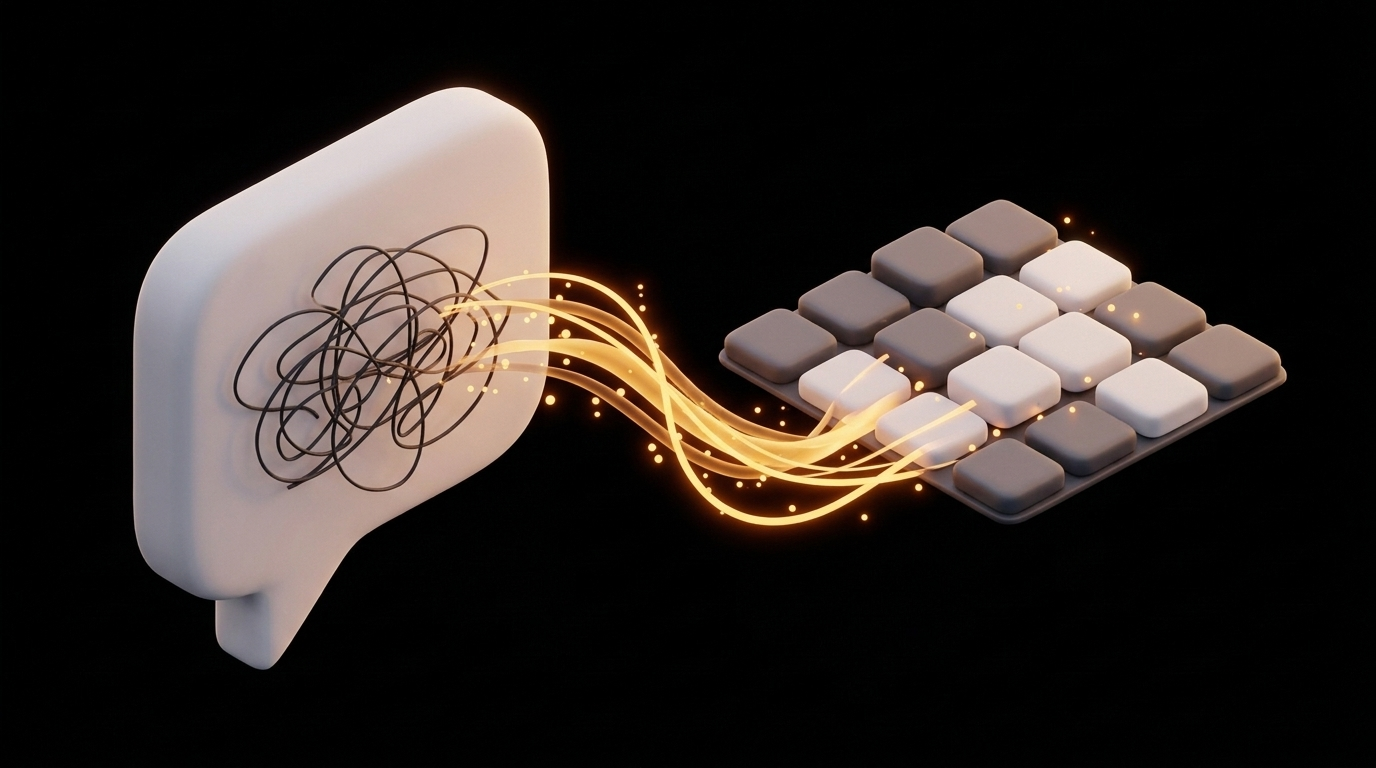
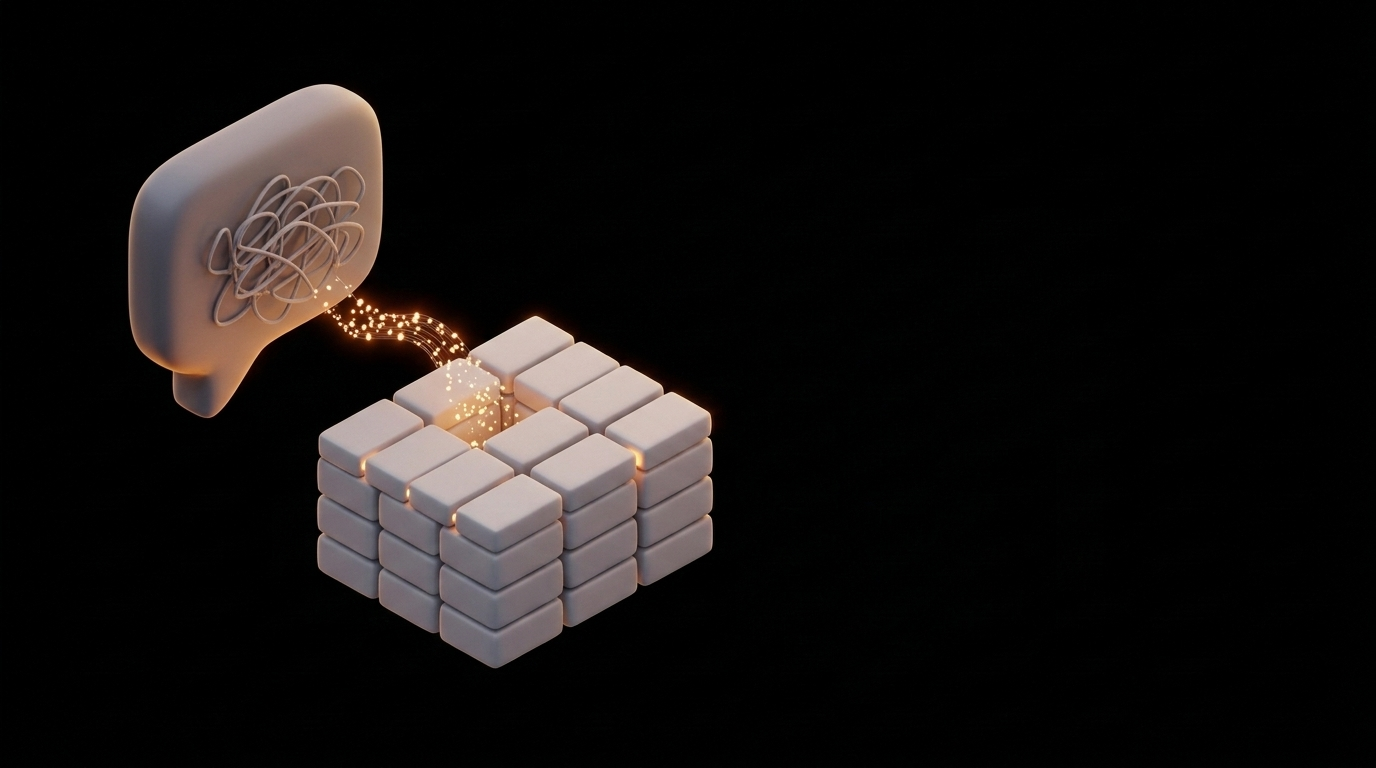
그림 가장자리 비네트, 28번 그림을 오른쪽 배경으로, 07 새 구도 그림
- slide-kit: 좌우 분리 배경에 위아래·바깥쪽 비네트, shot--fade(칸 안 그림 테두리 없이 녹임)
- 좌우 분리 배경 폭 기본 100% (옛 가운데 구도 그림만 --photo-w: 74%)
- 본문 좌우 분리용 .half, 28번 리니지 화면을 오른쪽 배경으로
- 07_speak 2차(왼쪽 60% 구도) 반영, 04는 회색 배경 경계선 문제로 프롬프트 보강
- .agents 정리는 앞 커밋

diff --git a/css/slide-kit.css b/css/slide-kit.css
@@ -455,14 +455,31 @@
    그림은 한쪽으로 붙여 반대쪽 끝을 페이드, 어둡게 하는 건 글씨 쪽만.
    (sk--photo 와 함께 씁니다) */
 .sk.sk--photo-left, .sk.sk--photo-right { --photo-dim: .8; }
-.sk--photo-left  .sk-bg { width: 74%; right: auto; object-position: 55% 50%;
-    -webkit-mask-image: linear-gradient(to right, #000 55%, transparent 100%);
-            mask-image: linear-gradient(to right, #000 55%, transparent 100%); }
-.sk--photo-right .sk-bg { width: 74%; left: auto; object-position: 45% 50%;
-    -webkit-mask-image: linear-gradient(to left, #000 55%, transparent 100%);
-            mask-image: linear-gradient(to left, #000 55%, transparent 100%); }
-.sk--photo-left::after  { background: linear-gradient(to right, transparent 30%, rgba(0,0,0,.82) 62%); }
-.sk--photo-right::after { background: linear-gradient(to left,  transparent 30%, rgba(0,0,0,.82) 62%); }
+.sk--photo-left  .sk-bg { width: var(--photo-w, 100%); right: auto; }
+.sk--photo-right .sk-bg { width: var(--photo-w, 100%); left: auto; }
+/* 처음부터 한쪽 60% 구도로 만든 그림은 폭 100% 그대로.
+   가운데 구도로 만든 옛 그림은 style="--photo-w: 74%" 로 한쪽에 붙여 씁니다. */
+/* 비네트 — 가운데는 밝게, 끝으로 갈수록 어둡게 사라짐 (딱 끊긴 테두리 없이)
+   글씨 쪽은 길게(45%), 화면 바깥쪽·위아래는 짧게 녹아듭니다 */
+.sk--photo-left .sk-bg {
+    -webkit-mask-image: linear-gradient(to right, rgba(0,0,0,.35) 0%, #000 14%, #000 55%, transparent 100%),
+                        linear-gradient(to bottom, transparent 0%, #000 16%, #000 84%, transparent 100%);
+            mask-image: linear-gradient(to right, rgba(0,0,0,.35) 0%, #000 14%, #000 55%, transparent 100%),
+                        linear-gradient(to bottom, transparent 0%, #000 16%, #000 84%, transparent 100%);
+    -webkit-mask-composite: source-in; mask-composite: intersect;
+}
+.sk--photo-right .sk-bg {
+    -webkit-mask-image: linear-gradient(to left, rgba(0,0,0,.35) 0%, #000 14%, #000 55%, transparent 100%),
+                        linear-gradient(to bottom, transparent 0%, #000 16%, #000 84%, transparent 100%);
+            mask-image: linear-gradient(to left, rgba(0,0,0,.35) 0%, #000 14%, #000 55%, transparent 100%),
+                        linear-gradient(to bottom, transparent 0%, #000 16%, #000 84%, transparent 100%);
+    -webkit-mask-composite: source-in; mask-composite: intersect;
+}
+.sk.sk--photo-left::after  { background: linear-gradient(to right, transparent 30%, rgba(0,0,0,.82) 62%); }
+.sk.sk--photo-right::after { background: linear-gradient(to left,  transparent 30%, rgba(0,0,0,.82) 62%); }
+/* 본문에서 좌우 분리: 글씨는 반대쪽 절반에만 (.half 로 감쌈) — 아래로 모으는 본문 규칙은 쓰지 않음 */
+.sk--photo-left  .half { margin-left: auto; }
+.sk .half { width: 52%; flex: 1; min-height: 0; display: flex; flex-direction: column; justify-content: center; gap: var(--sp-4); }
 
 /* 표지 글씨 블록을 반대쪽으로 */
 .sk-cover.sk--photo-left  { align-items: flex-start; text-align: left; padding-left: 50%; padding-right: var(--slide-px); }
@@ -582,6 +599,12 @@
 
 /* 화면 캡처처럼 잘리면 안 되는 그림 */
 .sk .shot--contain { object-fit: contain; background: var(--bg-code); }
+/* 칸 안 그림의 테두리를 없애고 가장자리를 검정 배경에 녹임 (비네트) */
+.sk .shot--fade {
+    border: none; border-radius: 0;
+    -webkit-mask-image: radial-gradient(ellipse 50% 50% at 50% 50%, #000 55%, transparent 100%);
+            mask-image: radial-gradient(ellipse 50% 50% at 50% 50%, #000 55%, transparent 100%);
+}
 
 /* 코드 타일(components.css)을 열 안에서 남는 높이만큼 */
 .sk .col > .code-tile-wrapper { flex: 1; min-height: 0; }

diff --git a/slides/AI업무자동화_연수/28.html b/slides/AI업무자동화_연수/28.html
@@ -1,4 +1,5 @@
-<div class="sk tone-amber">
+<div class="sk sk--photo sk--photo-right tone-amber" style="--photo-w: 58%; --photo-dim: .6;">
+  <img class="sk-bg" src="img/lineage.png" alt="" onerror="handleImgError(this)">
 
   <div class="s-head">
     <div class="s-head__main">
@@ -6,51 +7,43 @@
     </div>
   </div>
 
-  <div class="cols">
-
-    <div class="col">
-      <div class="card card--row card--plain">
-        <div class="card__icon">⌨</div>
-        <div>
-          <div class="card__title">자동화 스크립트 언어</div>
-          <p class="card__body">
-            키보드, 마우스, 창 제어를 코드 몇 줄로 자동화하는
-            <strong>윈도우 전용 무료 도구</strong>입니다.
-          </p>
-        </div>
-      </div>
-      <div class="card card--row card--plain">
-        <div class="card__icon">🏢</div>
-        <div>
-          <div class="card__title">못 고치는 프로그램도 자동화</div>
-          <p class="card__body">
-            에듀파인 &middot; 그룹웨어처럼 우리가 손댈 수 없는 프로그램도
-            <strong>키보드와 마우스를 대신 움직여</strong>
-            자동화합니다.
-          </p>
-        </div>
-      </div>
-      <div class="card card--row card--plain">
-        <div class="card__icon">🎮</div>
-        <div>
-          <div class="card__title">검증된 자동화 도구</div>
-          <p class="card__body">
-            온라인 게임 자동화 도구로 유명해질 만큼
-            <strong>반복 동작 자동화</strong>에
-            특화되어 있습니다.
-          </p>
-        </div>
-      </div>
-      <div class="note">
-        <i class="fa-solid fa-bolt"></i>&nbsp;
-        라이브 ②의 <strong>메신저 개별 전송</strong>이 바로 이 도구입니다.
+  <div class="half">
+    <div class="card card--row card--plain">
+      <div class="card__icon">⌨</div>
+      <div>
+        <div class="card__title">자동화 스크립트 언어</div>
+        <p class="card__body">
+          키보드, 마우스, 창 제어를 코드 몇 줄로 자동화하는
+          <strong>윈도우 전용 무료 도구</strong>입니다.
+        </p>
       </div>
     </div>
-
-    <div class="col">
-      <img class="shot shot--contain" src="img/lineage.png" alt="리니지 게임 화면" onerror="handleImgError(this)">
+    <div class="card card--row card--plain">
+      <div class="card__icon">🏢</div>
+      <div>
+        <div class="card__title">못 고치는 프로그램도 자동화</div>
+        <p class="card__body">
+          에듀파인 &middot; 그룹웨어처럼 우리가 손댈 수 없는 프로그램도
+          <strong>키보드와 마우스를 대신 움직여</strong>
+          자동화합니다.
+        </p>
+      </div>
     </div>
-
+    <div class="card card--row card--plain">
+      <div class="card__icon">🎮</div>
+      <div>
+        <div class="card__title">검증된 자동화 도구</div>
+        <p class="card__body">
+          온라인 게임 자동화 도구로 유명해질 만큼
+          <strong>반복 동작 자동화</strong>에
+          특화되어 있습니다.
+        </p>
+      </div>
+    </div>
+    <div class="note">
+      <i class="fa-solid fa-bolt"></i>&nbsp;
+      라이브 ②의 <strong>메신저 개별 전송</strong>이 바로 이 도구입니다.
+    </div>
   </div>
 
 </div>

diff --git a/slides/AI업무자동화_연수/22.html b/slides/AI업무자동화_연수/22.html
@@ -14,7 +14,7 @@
   <div class="cols cols--3" style="grid-template-columns: 1.1fr 1fr 1.15fr; gap: var(--sp-5);">
 
     <div class="col">
-      <img class="shot" src="img/AI업무자동화/22_translator.png" alt="직원과 컴퓨터 사이에서 통역하는 로봇">
+      <img class="shot shot--fade" src="img/AI업무자동화/22_translator.png" alt="직원과 컴퓨터 사이에서 통역하는 로봇">
     </div>
 
     <div class="col">

diff --git a/slides/AI업무자동화_연수/19.html b/slides/AI업무자동화_연수/19.html
@@ -15,7 +15,7 @@
   <div class="cols cols--right">
 
     <div class="col">
-      <img class="shot" src="img/AI업무자동화/19_machine.png" alt="제각각인 서류가 들어가면 같은 모양으로 나오는 기계">
+      <img class="shot shot--fade" src="img/AI업무자동화/19_machine.png" alt="제각각인 서류가 들어가면 같은 모양으로 나오는 기계">
     </div>
 
     <div class="flow flow--down">

diff --git a/slides/AI업무자동화_연수/27.html b/slides/AI업무자동화_연수/27.html
@@ -1,4 +1,4 @@
-<div class="sk sk-cover sk--photo sk--photo-right tone-amber">
+<div class="sk sk-cover sk--photo sk--photo-right tone-amber" style="--photo-w: 74%;">
   <img class="sk-bg" src="img/AI업무자동화/27_toolbox.png" alt="">
   <div class="sk-cover__label">3시간째 · 오토핫키 설치 한 번</div>
   <h2 class="sk-cover__title">내 PC에 도구를 둔다</h2>

diff --git a/slides/AI업무자동화_연수/18.html b/slides/AI업무자동화_연수/18.html
@@ -1,4 +1,4 @@
-<div class="sk sk-cover sk--photo sk--photo-left tone-amber">
+<div class="sk sk-cover sk--photo sk--photo-left tone-amber" style="--photo-w: 74%;">
   <img class="sk-bg" src="img/AI업무자동화/18_puzzle.png" alt="">
   <div class="sk-cover__label">2시간째 · 설치 없음</div>
   <h2 class="sk-cover__title">AI가 만든 코드를 쓴다</h2>

diff --git a/index.html b/index.html
@@ -13,7 +13,7 @@
     <link rel="stylesheet" href="css/base.css?v=6">
     <link rel="stylesheet" href="css/components.css?v=5">
     <!-- 디자인 시스템: 새 슬라이드는 이 클래스들만 조합하면 됩니다 -->
-    <link rel="stylesheet" href="css/slide-kit.css?v=15">
+    <link rel="stylesheet" href="css/slide-kit.css?v=18">
 </head>
 <body>
 

diff --git a/slides/AI업무자동화_연수/01.html b/slides/AI업무자동화_연수/01.html
@@ -1,4 +1,4 @@
-<div class="sk sk-cover sk--photo sk--photo-left tone-amber">
+<div class="sk sk-cover sk--photo sk--photo-left tone-amber" style="--photo-w: 74%;">
   <img class="sk-bg" src="img/AI업무자동화/01_cover.png" alt="">
 
   <div class="sk-cover__label"><i class="fa-solid fa-bolt"></i> &nbsp; AI Work Automation 2026</div>

diff --git a/slides/AI업무자동화_연수/17.html b/slides/AI업무자동화_연수/17.html
@@ -1,4 +1,4 @@
-<div class="sk sk-cover sk--photo sk--photo-left tone-amber">
+<div class="sk sk-cover sk--photo sk--photo-left tone-amber" style="--photo-w: 74%;">
   <img class="sk-bg" src="img/AI업무자동화/17_built.png" alt="">
   <div class="sk-cover__label">1시간째 정리</div>
   <h2 class="sk-cover__title">

diff --git a/img/AI업무자동화/프롬프트.md b/img/AI업무자동화/프롬프트.md
@@ -155,6 +155,8 @@ The three figures fill the frame.
 > - 17번은 **07_speak.png(새로 만든 것)** 도 참조로 넘겨 이어지는 장면이 되게 해 주세요.
 > - 비율 **16:9**, 공통 스타일·글자 금지는 1차와 같습니다.
 > - 인물·로봇은 **빈 쪽(글씨가 들어갈 쪽)을 바라보게** 해 주세요. 시선이 글씨로 흘러갑니다.
+> - ⚠ **배경은 화면 전체가 하나로 이어진 순수한 검정(#000000)** 이어야 합니다. 빈 쪽만 검게 칠하고 소재 쪽에 회색 바닥·벽·그라데이션을 깔면 **세로 경계선**이 생깁니다 (04번 1회차 실패). 바닥·벽 없이 소재만 검정 속에 떠 있게 해 주세요.
+> - **04번은 다시 만들어 주세요** (1회차에 회색 배경 + 경계선). 아래 프롬프트에 배경 조건을 추가했습니다.
 
 ### 2-1. `04_handsoff.png` — 소재는 **오른쪽**, 왼쪽 40% 비움
 
@@ -165,6 +167,8 @@ A large glowing amber checkmark shape floats above the screen.
 Place the whole group inside the RIGHT 60% of the frame; the worker and robot
 are turned slightly toward the left side of the frame.
 Leave the LEFT 40% of the frame completely empty pure black.
+The background is one seamless pure black (#000000) across the entire frame:
+no floor, no wall, no gray backdrop, no gradient, no visible edge or split.
 ```
 
 ### 2-2. `07_speak.png` — 소재는 **왼쪽**, 오른쪽 40% 비움
@@ -202,6 +206,7 @@ Leave the RIGHT 40% of the frame completely empty pure black.
 ### 2차 체크리스트
 
 - [ ] 반대쪽 40%가 정말 비어 있는가 (소재·빛 번짐이 넘어오지 않았는가)
+- [ ] 배경이 화면 전체에서 같은 순수한 검정인가 (회색 바닥·세로 경계선 없음)
 - [ ] 인물·로봇이 빈 쪽을 바라보는가
 - [ ] 1차 그림과 화풍·인물·로봇이 같은가
 - [ ] 글자·숫자·로고·워터마크(✦)가 없는가

diff --git a/SLIDE_GUIDE.md b/SLIDE_GUIDE.md
@@ -94,6 +94,7 @@ npx serve
 | 메모·폴더 구조 같은 고정폭 글 | `memo` |
 | 표 첫 칸을 머리말처럼 | `<table class="tbl--key">` |
 | 잘리면 안 되는 캡처 | `shot shot--contain` |
+| 칸 안 그림 가장자리 흐리게 | `shot shot--fade` |
 
 > 💡 글은 `<p>` 로 쓰세요 (`<p class="card__body">` 등). p 안의 `<strong>` 이 흰색이 되고, 줄바꿈 자동 정돈도 p 에만 작동합니다.
 
@@ -148,7 +149,14 @@ npx serve
 </div>
 ```
 
-그림은 처음부터 **소재를 한쪽 60% 안에, 반대쪽 40%는 빈 검정**으로, 인물은 글씨 쪽을 바라보게 만듭니다. 덱 전체를 바꾸려면 `[data-deck="..."] .sk--photo { --photo-dim: .3; }`
+그림은 처음부터 **소재를 한쪽 60% 안에, 반대쪽 40%는 빈 검정**으로, 인물은 글씨 쪽을 바라보게 만듭니다. 배경은 화면 전체가 이어진 순수한 검정(회색 바닥 금지 — 세로 경계선이 생김).
+가운데 구도로 만든 옛 그림은 `style="--photo-w: 74%"` 로 한쪽에 붙여 씁니다.
+
+### 그림 가장자리는 흐리게 (비네트)
+
+딱 끊긴 테두리는 단절감을 줍니다. 가운데는 밝게, 끝으로 갈수록 어둡게 검정 배경에 녹입니다.
+- 좌우 분리 배경(`sk--photo-left/right`)은 이미 위아래·바깥쪽까지 비네트가 들어가 있습니다.
+- 칸 안의 그림은 `<img class="shot shot--fade">` — 테두리 없이 타원으로 녹아듭니다. 덱 전체를 바꾸려면 `[data-deck="..."] .sk--photo { --photo-dim: .3; }`
 
 ### 그림 만들기 (안티그래비티 + 나노바나나)
 
